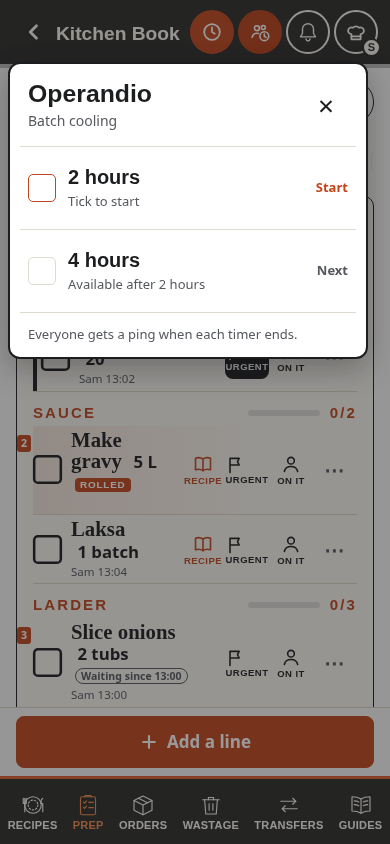
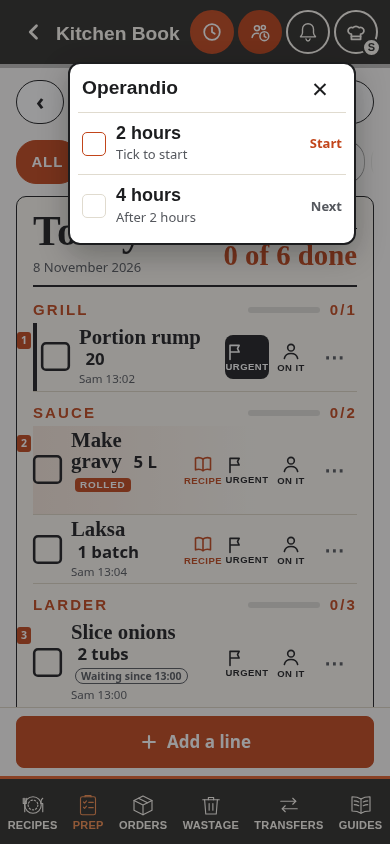
Make the Operandio dropdown take less screen space

Changed region(s): [[0.0, 0.0616, 0.9538, 0.4313], [0.8, 0.0924, 0.8308, 0.1232]]

diff --git a/docs/operandio-cooling-options/preview.css b/docs/operandio-cooling-options/preview.css
@@ -62,12 +62,11 @@ html.oc-sheet-open, html.oc-sheet-open body { overflow: hidden; }
 
 /* Selected refinement: a compact menu under the clock, using the chef hat's row style. */
 .oc-clock[aria-expanded="true"] { background: var(--accent-ink); border-color: var(--accent-ink); color: var(--paper); }
-.oc-dropdown { position: absolute; width: min(360px,calc(100vw - 16px)); max-height: calc(100dvh - 16px); overflow-y: auto; padding: 6px 10px 0; background: var(--paper); color: var(--ink); border: 2px solid var(--ink); border-radius: 12px; box-shadow: 0 10px 30px #0004; font-family: var(--body); }
-.oc-menu-head { display: flex; align-items: center; justify-content: space-between; padding: 10px 8px 14px; border-bottom: 1px solid var(--line); }
-.oc-menu-head h2 { margin: 0; font: 700 1.55rem/1.1 var(--display); }
-.oc-menu-head p { margin: 4px 0 0; color: var(--muted); font-size: .875rem; }
+.oc-dropdown { position: absolute; width: min(288px,calc(100vw - 16px)); max-height: calc(100dvh - 16px); overflow-y: auto; padding: 2px 8px 6px; background: var(--paper); color: var(--ink); border: 2px solid var(--ink); border-radius: 12px; box-shadow: 0 10px 30px #0004; font-family: var(--body); }
+.oc-menu-head { display: flex; align-items: center; justify-content: space-between; padding: 0 4px 2px; border-bottom: 1px solid var(--line); }
+.oc-menu-head h2 { margin: 0; font: 700 1.2rem/1.1 var(--display); }
 .oc-menu-close { display: grid; place-items: center; width: 44px; height: 44px; border: 0; border-radius: 8px; background: transparent; color: var(--ink); font-size: 28px; cursor: pointer; }
-.oc-menu-row { width: 100%; display: flex; align-items: center; gap: 12px; min-height: 83px; border: 0; border-bottom: 1px solid var(--line); background: none; color: var(--ink); font: inherit; text-align: left; padding: 16px 8px; }
+.oc-menu-row { width: 100%; display: flex; align-items: center; gap: 10px; min-height: 62px; border: 0; border-bottom: 1px solid var(--line); background: none; color: var(--ink); font: inherit; text-align: left; padding: 9px 4px; }
 .oc-menu-row.is-ready { cursor: pointer; }
 .oc-menu-row:disabled { opacity: 1; }
 .oc-menu-row:disabled .oc-menu-tick { color: var(--muted); border-color: var(--line); }
@@ -75,11 +74,14 @@ html.oc-sheet-open, html.oc-sheet-open body { overflow: hidden; }
 .oc-menu-row.is-ready .oc-menu-state { color: var(--accent-ink); }
 .oc-menu-row:focus-visible, .oc-menu-close:focus-visible { outline: 2px solid var(--accent-ink); outline-offset: -2px; background: var(--hit); }
 .oc-menu-row.is-ready:hover, .oc-menu-close:hover { background: var(--hit); }
-.oc-menu-tick { display: grid; place-items: center; flex: 0 0 28px; width: 28px; height: 28px; border: 1.5px solid var(--ink); border-radius: 5px; font-weight: 700; }
+.oc-menu-tick { display: grid; place-items: center; flex: 0 0 24px; width: 24px; height: 24px; border: 1.5px solid var(--ink); border-radius: 5px; font-weight: 700; }
 .oc-menu-tick svg { width: 20px; height: 20px; }
-.oc-menu-label { display: flex; flex-direction: column; gap: 5px; min-width: 0; }
-.oc-menu-label b { font: 700 1.25rem/1.1 var(--display); }
+.oc-menu-label { display: flex; flex-direction: column; gap: 3px; min-width: 0; }
+.oc-menu-label b { font: 700 1.125rem/1.1 var(--display); }
 .oc-menu-label small { color: var(--muted); font-size: .8125rem; line-height: 1.3; }
 .oc-menu-state { margin-left: auto; font-size: .8125rem; font-weight: 700; color: var(--muted); }
-.oc-menu-foot { padding: 12px 8px 14px; color: var(--muted); font-size: .8125rem; line-height: 1.4; }
+.oc-menu-foot { padding: 6px 4px 0; color: var(--muted); font-size: .8125rem; line-height: 1.4; }
 .oc-dropdown:focus { outline: none; }
+
+.oc-menu-row:last-child { border-bottom: 0; }
+.oc-menu-state:empty { display: none; }

diff --git a/docs/operandio-cooling-options/preview.js b/docs/operandio-cooling-options/preview.js
@@ -29,14 +29,14 @@
     const firstDone=['first_due','second','second_due'].includes(stage);
     const secondDone=stage==='second_due';
     function row(hours,enabled,running,done,caption) {
-      return '<button type="button" class="oc-menu-row '+(enabled?'is-ready':'')+'" data-oc="start'+(hours===2?'1':'2')+'" '+(enabled?'':'disabled')+'><span class="oc-menu-tick" aria-hidden="true">'+(done?'✓':running?clock:'')+'</span><span class="oc-menu-label"><b>'+hours+' hours</b><small>'+caption+'</small></span><span class="oc-menu-state">'+(enabled?'Start':running?'Running':done?'Done':'Next')+'</span></button>';
+      return '<button type="button" class="oc-menu-row '+(enabled?'is-ready':'')+'" data-oc="start'+(hours===2?'1':'2')+'" '+(enabled?'':'disabled')+'><span class="oc-menu-tick" aria-hidden="true">'+(done?'✓':running?clock:'')+'</span><span class="oc-menu-label"><b>'+hours+' hours</b><small>'+caption+'</small></span><span class="oc-menu-state">'+(enabled?'Start':running?'':done?'Done':'Next')+'</span></button>';
     }
     const wrap=document.createElement('div');wrap.className='wm-wrap oc-modal';
-    wrap.innerHTML='<div class="wm-bg" data-oc="close"></div><section class="oc-dropdown" role="dialog" aria-modal="true" aria-labelledby="oc-title" tabindex="-1"><header class="oc-menu-head"><div><h2 id="oc-title">Operandio</h2><p>Batch cooling</p></div><button type="button" data-oc="close" class="oc-menu-close" aria-label="Close cooling timers">×</button></header>'+row(2,stage==='idle',stage==='first',firstDone,stage==='idle'?'Tick to start':stage==='first'?'1 h 42 min left · due 16:00':'Finished at 16:00')+row(4,stage==='first_due',stage==='second',secondDone,stage==='first_due'?'Tick to start the next stage':stage==='second'?'3 h 50 min left · due 20:10':secondDone?'Finished at 20:10':'Available after 2 hours')+'<footer class="oc-menu-foot">'+(secondDone?action('reset','Start another batch',true):'Everyone gets a ping when each timer ends.')+'</footer></section>';
+    wrap.innerHTML='<div class="wm-bg" data-oc="close"></div><section class="oc-dropdown" role="dialog" aria-modal="true" aria-labelledby="oc-title" tabindex="-1"><header class="oc-menu-head"><h2 id="oc-title">Operandio</h2><button type="button" data-oc="close" class="oc-menu-close" aria-label="Close cooling timers">×</button></header>'+row(2,stage==='idle',stage==='first',firstDone,stage==='idle'?'Tick to start':stage==='first'?'1 h 42 min left · due 16:00':'Finished at 16:00')+row(4,stage==='first_due',stage==='second',secondDone,stage==='first_due'?'Tick to start':stage==='second'?'3 h 50 min left · due 20:10':secondDone?'Finished at 20:10':'After 2 hours')+(secondDone?'<footer class="oc-menu-foot">'+action('reset','Start another batch',true)+'</footer>':'')+'</section>';
     document.body.appendChild(wrap);document.documentElement.classList.add('oc-sheet-open');
     const chip=document.querySelector('.oc-clock'),rect=chip.getBoundingClientRect(),menu=wrap.querySelector('.oc-dropdown');
     menu.style.top=Math.max(8,Math.min(rect.bottom+8,innerHeight-menu.offsetHeight-8))+'px';
-    menu.style.right=Math.max(8,Math.min(innerWidth-menu.offsetWidth-8,innerWidth-rect.right))+'px';
+    menu.style.left=Math.max(8,Math.min(innerWidth-menu.offsetWidth-8,rect.left+rect.width/2-menu.offsetWidth/2))+'px';
     chip.setAttribute('aria-expanded','true');menu.focus();
   }
   function open(kind) {

diff --git a/docs/operandio-cooling-options/brief.md b/docs/operandio-cooling-options/brief.md
@@ -14,12 +14,16 @@ The mock example starts at 14:00, pings at 16:00, waits until someone ticks at 1
 
 The owner's next request selects a clock dropdown in the chef hat's style. This supersedes the council's recommendation of C below. It uses the chef hat's cream panel, charcoal border and compact rows, anchored below the clock at phone, tablet and desktop widths. The existing chef hat itself becomes a bottom sheet on phones; this two-row preview stays a dropdown, as requested.
 
-- **Operandio** is the heading, with **Batch cooling** underneath.
+- **Operandio** is the single-line heading, with a 44 px close button.
 - **2 hours** is clickable first. While running it shows time left and its deadline.
-- **4 hours** is disabled with “Available after 2 hours”. After the first deadline it becomes clickable with “Tick to start the next stage”. It never starts itself.
+- **4 hours** is disabled with “After 2 hours”. After the first deadline it becomes clickable with “Tick to start”. It never starts itself.
 - Both rows remain visible. A running or completed row cannot be restarted by another tick.
 - The same shift-style pings appear at both deadlines. Got it remains personal.
 - The clock and a timer row take two taps to start from Prep. Closing the dropdown takes one more tap. Existing Prep actions stay one tap, and the closed menu uses no list space.
+
+The owner then asked for a smaller dropdown so more of the page stays visible. The ready and running panels now measure **288 × 183 px**, down from **360 × 297 px** on the 390 px phone: about 51% less panel area. Both rows remain 62 px high, and the close target remains 44 px. The extra subtitle and explanatory footer are removed; the completed state alone adds Start another batch and measures 288 × 239 px. The menu is centred under the clock and clamped inside the viewport.
+
+Quick refinement check: no new controls or steps, no changed timing or access, and no new reads. Start remains two taps from Prep. Closed-menu list measurements remain the baseline. All five states were exercised at 390, 768 and 1280 px with no overflow; captions fit without clipping on the phone.
 
 Closed-app delivery is now part of the requested feature. Canonical server deadlines preserve the timer, and a scheduled sender plus device push provides notifications without an app window. Existing order push registration is chef-only and its ten-minute GitHub job is not a punctual alarm. Extend cooling opt-in to current kitchen staff separately from supplier reminders. Each device needs notification permission; iPhone/iPad needs the Home Screen app. OS settings and connectivity still govern arrival and sound.
 

diff --git a/docs/head-chef-decisions.md b/docs/head-chef-decisions.md
@@ -1,6 +1,6 @@
 # Head chef decisions
 
-- **8 November 2026, design shared Operandio cooling pings.** The head chef asked for design ideas for a cooling timer that anyone in the kitchen can start and everyone receives as a shift-style ping. Clarifications: always use Operandio; the first tick starts 2 hours; after its ping, someone must tick again to start a further 4 hours, followed by another ping. Got it is personal in the proposals. After the three designs, the head chef selected a small clock dropdown in the chef hat style, with 2 hours clickable first and 4 hours enabled after the first timer ends, and asked for it to keep running with the app closed. The updated preview records that choice. Shared state, background delivery and any required billing change are not deployed. See [the chosen dropdown and delivery plan](operandio-cooling-options/brief.md).
+- **8 November 2026, design shared Operandio cooling pings.** The head chef asked for design ideas for a cooling timer that anyone in the kitchen can start and everyone receives as a shift-style ping. Clarifications: always use Operandio; the first tick starts 2 hours; after its ping, someone must tick again to start a further 4 hours, followed by another ping. Got it is personal in the proposals. After the three designs, the head chef selected a small clock dropdown in the chef hat style, with 2 hours clickable first and 4 hours enabled after the first timer ends, and asked for it to keep running with the app closed. The head chef then asked for a more compact dropdown; the preview removes the subtitle and explanatory footer and keeps two 62 px timer rows in a 288 × 183 px panel. The updated preview records that choice. Shared state, background delivery and any required billing change are not deployed. See [the chosen dropdown and delivery plan](operandio-cooling-options/brief.md).
 
 - **8 November 2026, a Head chef / Sous chef panel like the real admin panel.** The owner clarified the requested design after the three examples: inspect how the admin account's panel is implemented and give Head chef and Sous chef a similar panel. Reuse the actual admin shell with Today, Reports, Team and Kitchen, its responsive rail, tabs and Find. Open it with the current personal chef PIN and canonical role; retain the existing service shortcuts. Working chef editors and registers belong inside the panel, with the current permissions. No wider owner-only access is implied. See [the chef panel brief](chef-panel-options/brief.md).
 

diff --git a/README.md b/README.md
@@ -34,7 +34,7 @@ Guides includes a Food safety guide for everyone with access to that page. It re
 
 This guide is bundled with the book, searchable and readable without extra Firestore reads or writes. It stays outside the uploaded-guide editor. Existing page access and feature switches still apply. The on-screen guide is available from the saved app with no signal; the PDF needs opening once while connected before it is cached. Revert this change to remove the bundled guide; uploaded guides stay intact.
 
-The [Operandio cooling preview](docs/operandio-cooling-options/index.html) (8 November 2026) shows the chosen clock dropdown in the chef hat style. Anyone can start 2 hours; the 4-hour row becomes clickable when it ends, and starts only on another tick. Everyone gets a ping at each deadline. Closed-app operation is requested and needs server timing plus device push; the recommended backend requires a billing decision beyond the recorded free-plan choice. This is a clickable preview, not a released timer. [Brief and delivery plan](docs/operandio-cooling-options/brief.md).
+The [Operandio cooling preview](docs/operandio-cooling-options/index.html) (8 November 2026) shows the chosen compact clock dropdown in the chef hat style, reduced to 288 × 183 px for the ready and running states. Anyone can start 2 hours; the 4-hour row becomes clickable when it ends, and starts only on another tick. Everyone gets a ping at each deadline. Closed-app operation is requested and needs server timing plus device push; the recommended backend requires a billing decision beyond the recorded free-plan choice. This is a clickable preview, not a released timer. [Brief and delivery plan](docs/operandio-cooling-options/brief.md).
 
 ## What it does
 
